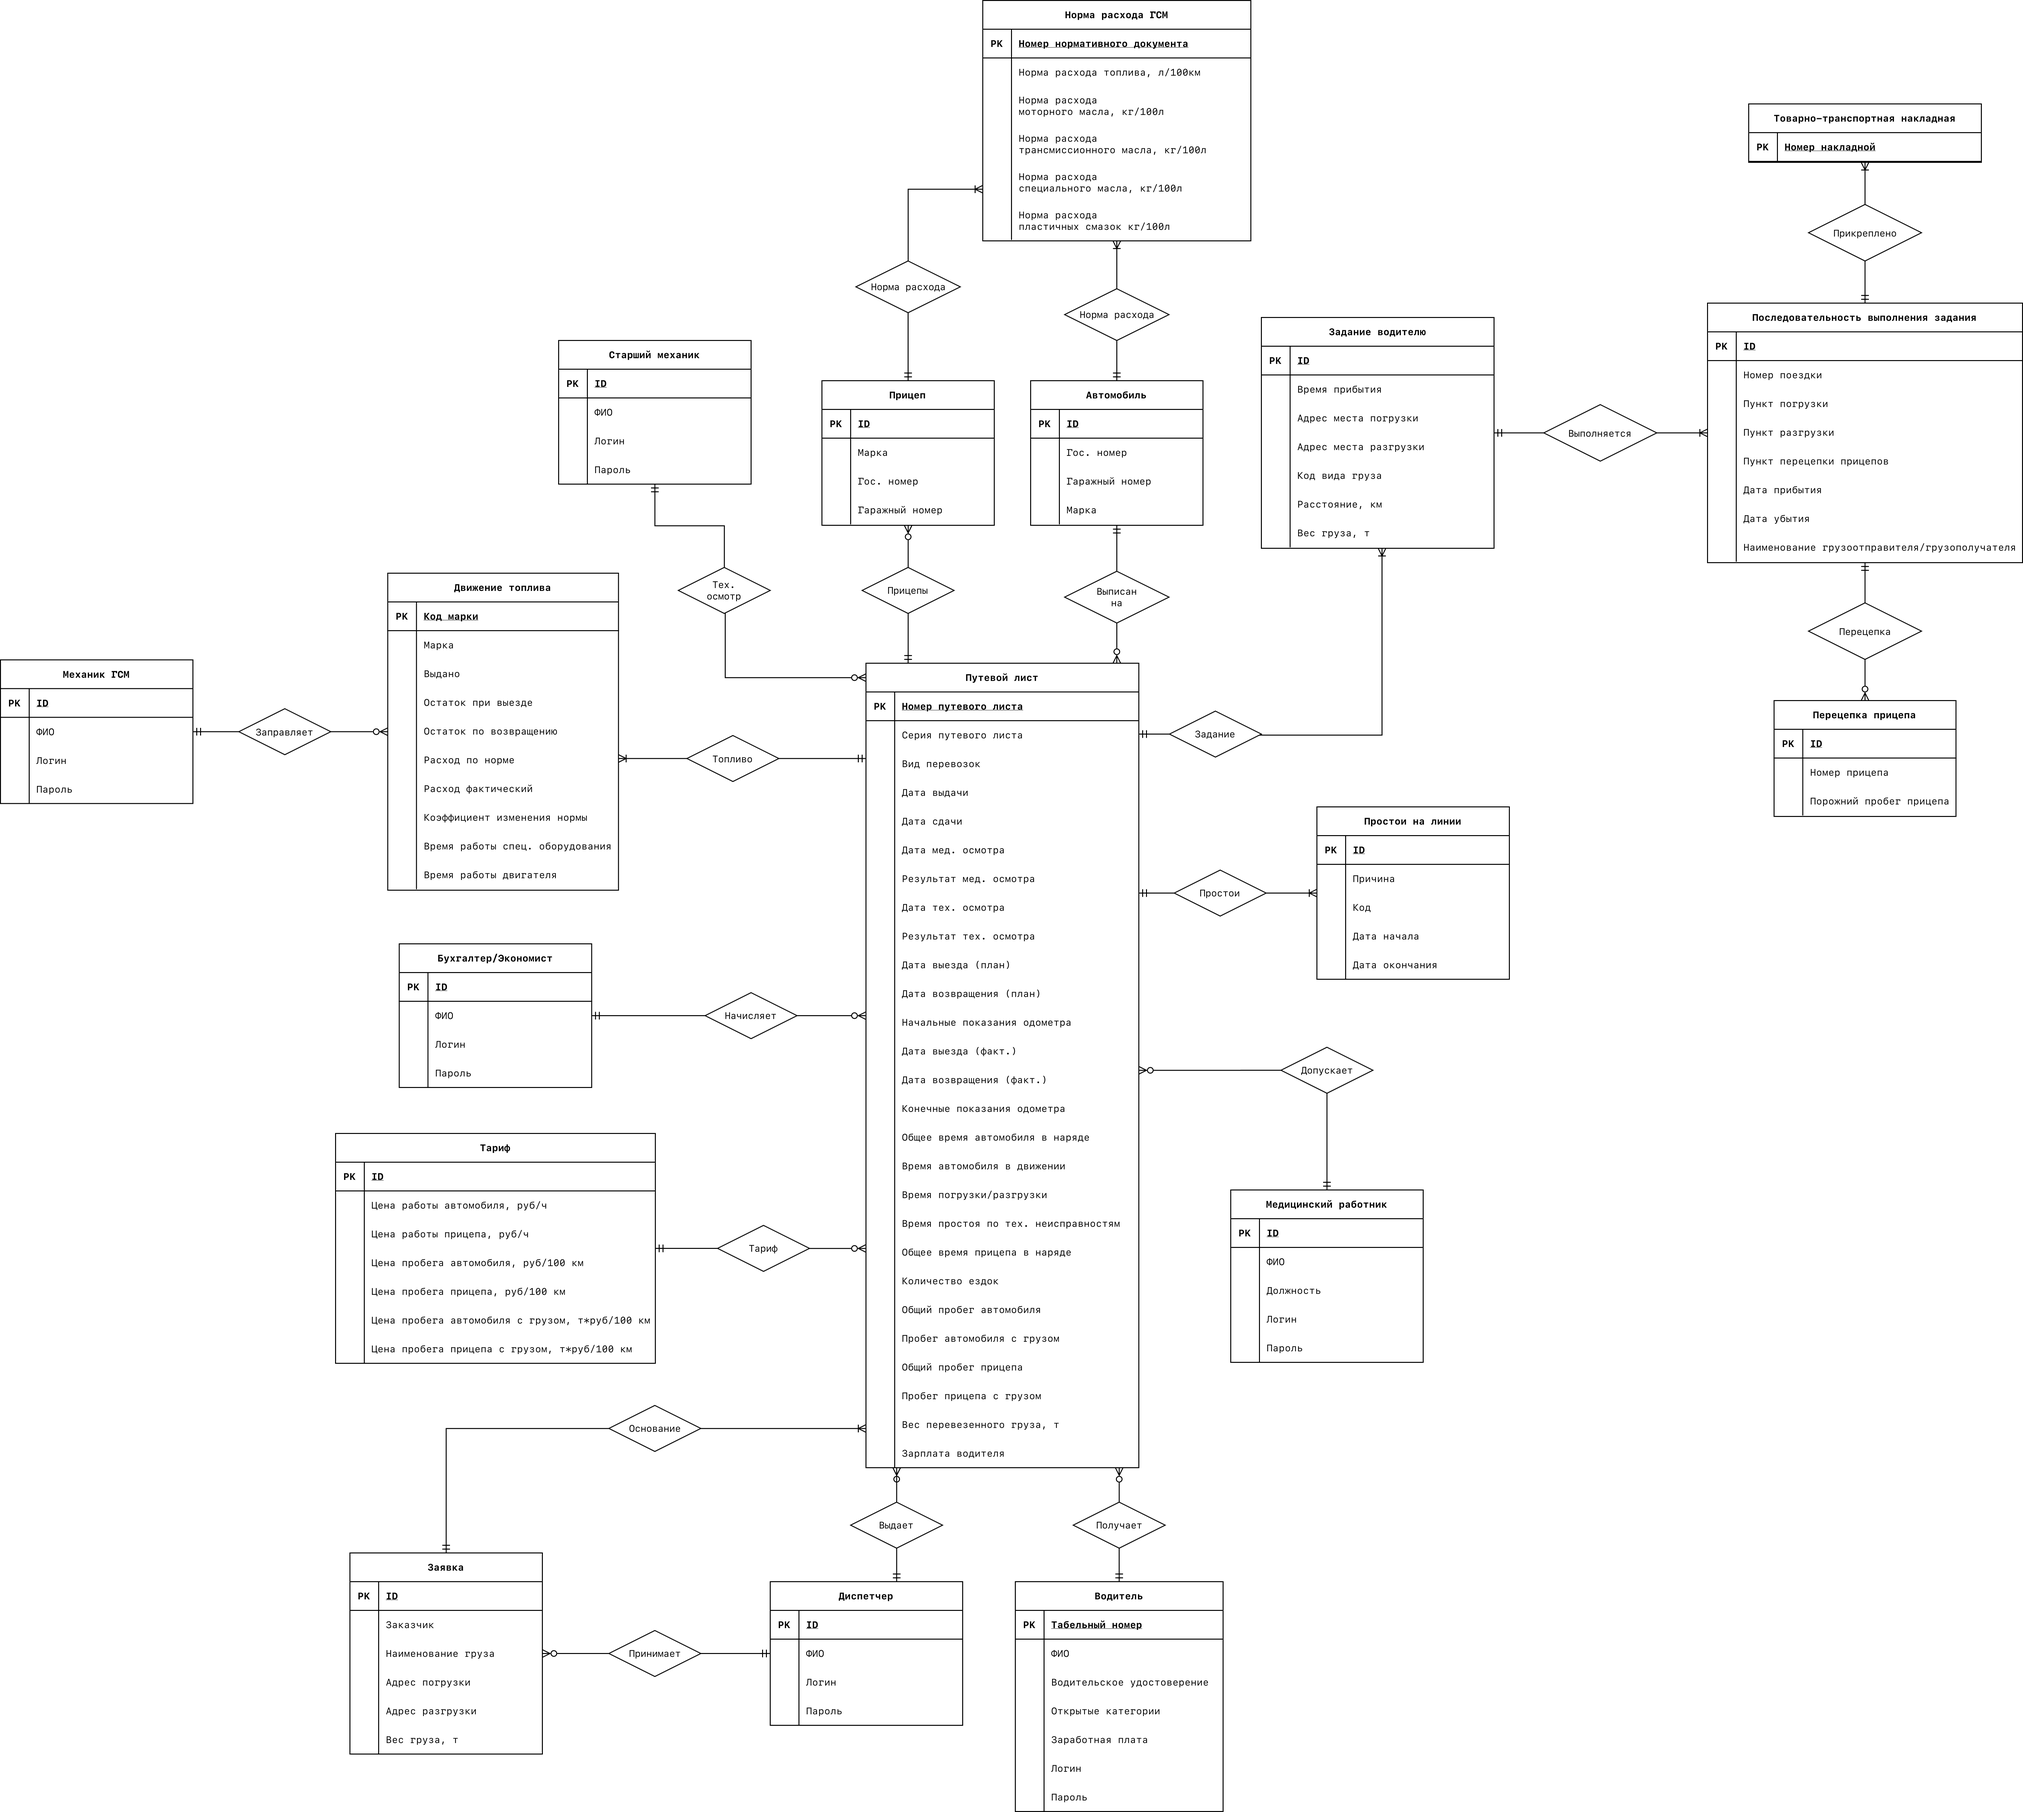
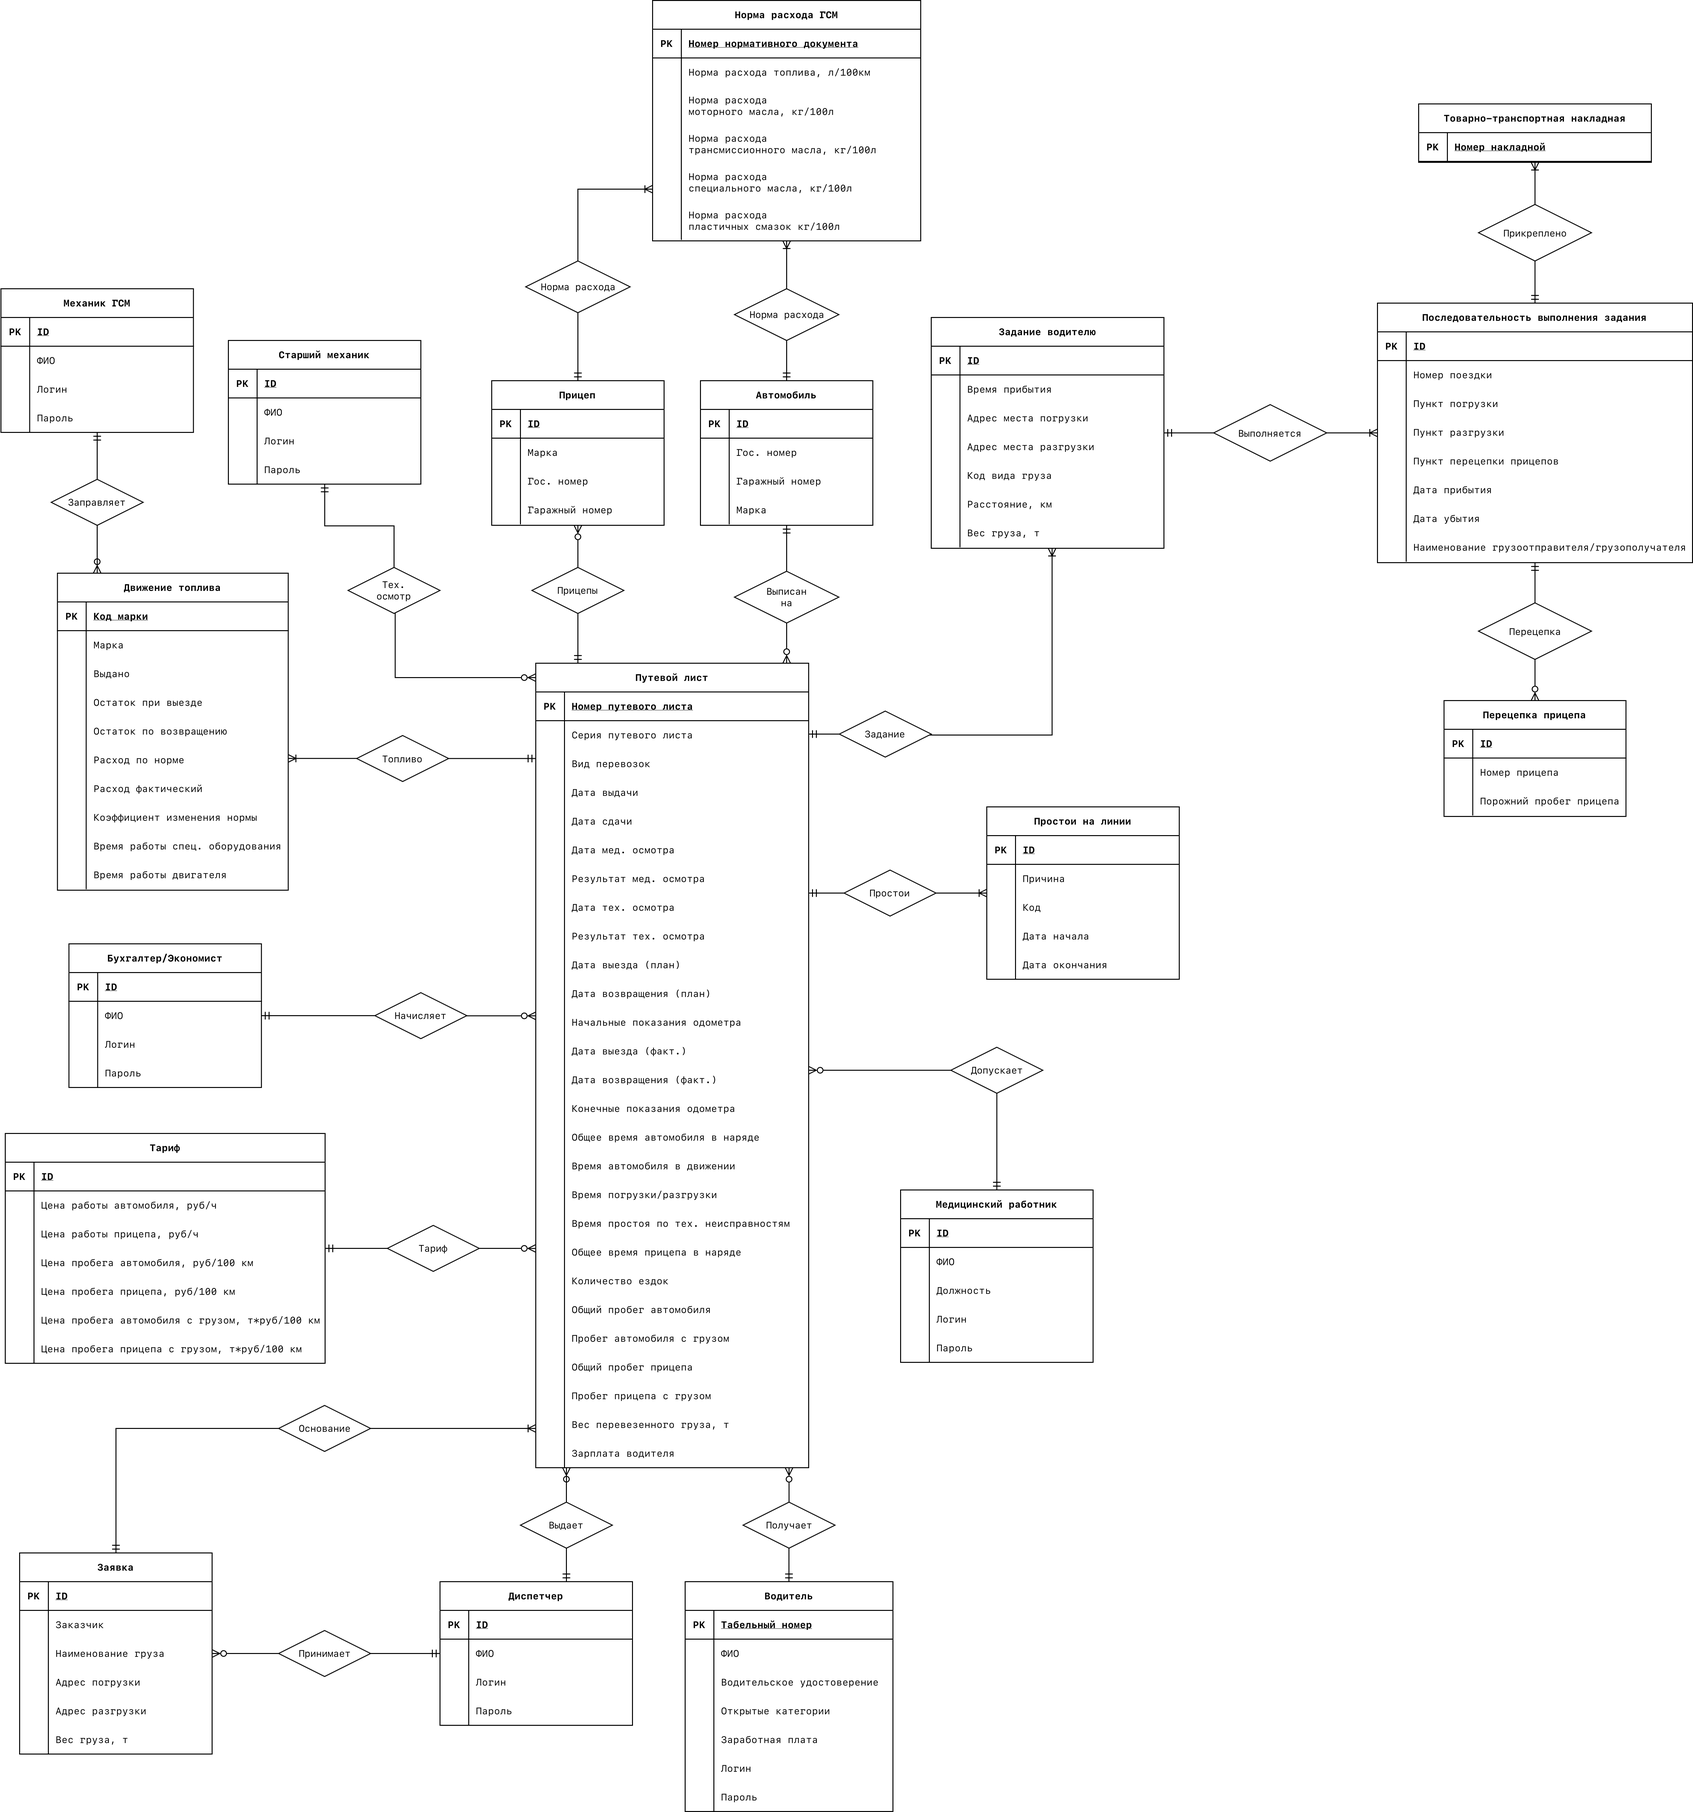
Уместил классовую диаграмму в портретной ориентации

diff --git a/2 - Изучение и моделирование предметной области/1.tex b/2 - Изучение и моделирование предметной области/1.tex
@@ -47,12 +47,12 @@
 Классовая диаграмма разрабатываемой системы представлена на рисунке
 \ref{fig:2_1_3_er_diagram}.
 
-\begin{sidewaysfigure}[hp!]
+\begin{figure}[hp!]
 	\centering
-	\includegraphics[keepaspectratio,width=0.73\textwidth]{./images/2_1_3_er-diagram.png}
+	\includegraphics[keepaspectratio,width=\textwidth]{./images/2_1_3_er-diagram.png}
 	\caption{ER-диаграмма системы}
 	\label{fig:2_1_3_er_diagram}
-\end{sidewaysfigure}
+\end{figure}
 
 Центральной сущностью выступает \textquote{Путевой лист}. Она является
 электронным аналогом путевого листа, заполняющегося на бумажном носителе.
